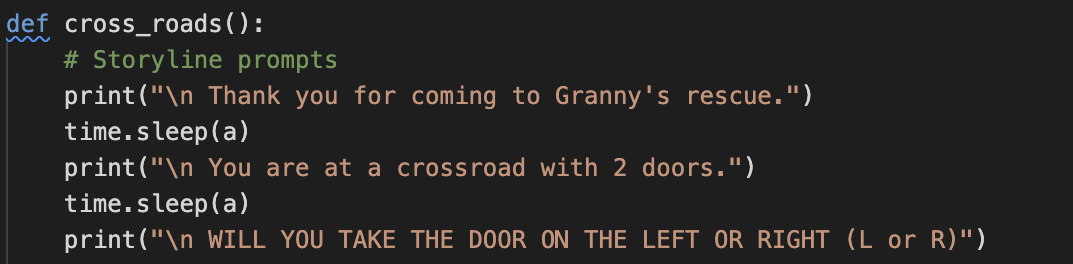
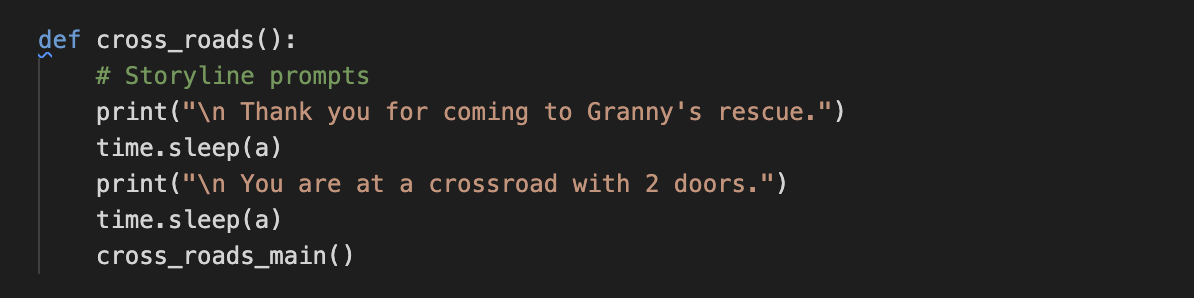
Update img f_crossroads and f_start. Add img f_start_main and f_crossroads_main - readme.md

diff --git a/README.md b/README.md
@@ -37,19 +37,27 @@ The flowchart created on
     - If the play agrees, the game proceeds.
     - If the player does not wish to, the game will end.
     - If the player types an incorrect option, they return to start().
-    - For example, (y or n) can be typed in either case, but it has to be "y" or "n". Anything else is considered incorrect. 
+    - For example, (y or n) can be typed in either case, but it has to be "y" or "n". 
+    - If a player enters a blank response it will be flagged up with "INVALID ENTRY".
+    - If a player enters an incorrect response it will be flaagged up with "INCORRECT ENTRY".
+    - A blank or incorrect response after highlightling it to the player will return to the question to continue playing.
+    - Each function has been divided into two parts . 
+    - The first part is the storyline.
+    - The second part allows the user to take decisions.
+    
    <h2 align="center"><img src="readme/images/f_start.png" alt="Mock screenshot" width="500" height="200"></h2>
+   <h2 align="center"><img src="readme/images/f_start_main.png" alt="Mock screenshot" width="500" height="400"></h2>
 
 - Crossroads
     - This is the first point of decision if the player proceeds to rescue granny
     - The player is given the option to turn left or right.
     - Left will take the player to the bear's den
     - Right will take the player to the monster's den
-    - If the player types an incorrect option, it is highlighted.
-    - The player is given a choice to continue playing or exit the game. 
-    - If the player wishes to continue , they are taken back to the start of this function().
-    - A second incorrect answer will take them to play_again() with the option of re-starting or exiting the game.
+    - If a player enters a blank response it will be flagged up with "INVALID ENTRY".
+    - If a player enters an incorrect response it will be flaagged up with "INCORRECT ENTRY".
+    - A blank or incorrect response after highlightling it to the player will return to the question to continue playing.
     <h2 align="center"><img src="readme/images/f_crossroads.png" alt="Mock screenshot" width="500" height="150"></h2>
+    <h2 align="center"><img src="readme/images/f_crossroads_main.png" alt="Mock screenshot" width="500" height="350"></h2>
 
 - Bear and Monster Den
 
